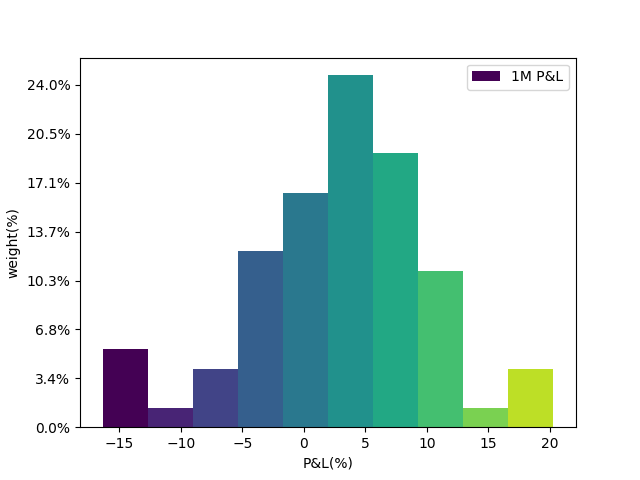
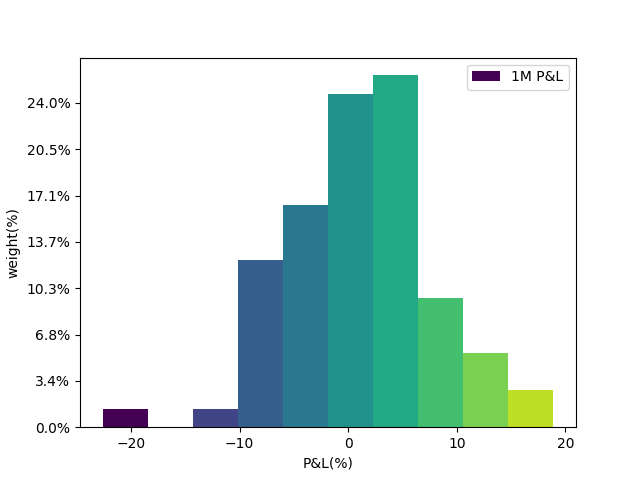
update examples

diff --git a/build/lib/ndfinance/strategies/trend/__init__.py b/build/lib/ndfinance/strategies/trend/__init__.py
@@ -1,14 +1,16 @@
 from ndfinance.strategies import PeriodicRebalancingStrategy
+from ndfinance.strategies.utils import apply_n_percent_rule
 from ndfinance import Weight, Close
 import numpy as np
 
 
 class ActualMomentumStratagy(PeriodicRebalancingStrategy):
-    def __init__(self, momentum_threshold, rebalance_period, momentum_label="momentum", momentum_timeframe=None):
+    def __init__(self, momentum_threshold, rebalance_period, momentum_label="momentum", momentum_timeframe=None, clip_param=0.3):
         super(ActualMomentumStratagy, self).__init__(rebalance_period)
         self.momentum_threshold = momentum_threshold
         self.momentum_label = momentum_label
         self.momentum_timeframe = momentum_timeframe
+        self.clip_param = clip_param
 
     def register_engine(self, *args, **kwargs):
         super(ActualMomentumStratagy, self).register_engine(*args, **kwargs)
@@ -25,6 +27,15 @@ class ActualMomentumStratagy(PeriodicRebalancingStrategy):
 
         momentum_dict = {ticker : (m if np.abs(m) >= self.momentum_threshold else 0) for ticker, m in momentum.items()}
         momentum_values = np.array(list(momentum_dict.values()))
+
+        momentum_values = momentum_values * (momentum_values >= momentum_values.mean()/2).astype(float)
+        
+        momentum_values = np.clip(
+            momentum_values, 
+            momentum_values.mean()-momentum_values.std()*self.clip_param, 
+            momentum_values.mean()+momentum_values.std()*self.clip_param
+        )
+
         weight = momentum_values / np.abs(momentum_values).sum()
         side = (weight > 0).astype(int) * 2 - 1
 
@@ -34,8 +45,8 @@ class ActualMomentumStratagy(PeriodicRebalancingStrategy):
                     self.broker.order(Close(self.broker.assets[ticker]))
                     continue
                 self.broker.order(
-                    Weight(self.broker.assets[ticker], self.broker.portfolio.portfolio_value_total, np.sign(weight), np.abs(weight)))
+                    Weight(self.broker.assets[ticker], (self.broker.portfolio.portfolio_value_total), side, np.abs(weight)))
                 continue
             self.broker.order(
-                    Weight(self.broker.assets[ticker], self.broker.portfolio.portfolio_value_total, np.sign(weight), np.abs(weight)))
+                    Weight(self.broker.assets[ticker], (self.broker.portfolio.portfolio_value_total), side, np.abs(weight)))
                 

diff --git a/ndfinance/strategies/trend/__init__.py b/ndfinance/strategies/trend/__init__.py
@@ -1,14 +1,16 @@
 from ndfinance.strategies import PeriodicRebalancingStrategy
+from ndfinance.strategies.utils import apply_n_percent_rule
 from ndfinance import Weight, Close
 import numpy as np
 
 
 class ActualMomentumStratagy(PeriodicRebalancingStrategy):
-    def __init__(self, momentum_threshold, rebalance_period, momentum_label="momentum", momentum_timeframe=None):
+    def __init__(self, momentum_threshold, rebalance_period, momentum_label="momentum", momentum_timeframe=None, clip_param=0.3):
         super(ActualMomentumStratagy, self).__init__(rebalance_period)
         self.momentum_threshold = momentum_threshold
         self.momentum_label = momentum_label
         self.momentum_timeframe = momentum_timeframe
+        self.clip_param = clip_param
 
     def register_engine(self, *args, **kwargs):
         super(ActualMomentumStratagy, self).register_engine(*args, **kwargs)
@@ -25,6 +27,13 @@ class ActualMomentumStratagy(PeriodicRebalancingStrategy):
 
         momentum_dict = {ticker : (m if np.abs(m) >= self.momentum_threshold else 0) for ticker, m in momentum.items()}
         momentum_values = np.array(list(momentum_dict.values()))
+        
+        momentum_values = np.clip(
+            momentum_values, 
+            momentum_values.mean()-momentum_values.std()*self.clip_param, 
+            momentum_values.mean()+momentum_values.std()*self.clip_param
+        )
+
         weight = momentum_values / np.abs(momentum_values).sum()
         side = (weight > 0).astype(int) * 2 - 1
 
@@ -34,8 +43,8 @@ class ActualMomentumStratagy(PeriodicRebalancingStrategy):
                     self.broker.order(Close(self.broker.assets[ticker]))
                     continue
                 self.broker.order(
-                    Weight(self.broker.assets[ticker], self.broker.portfolio.portfolio_value_total, np.sign(weight), np.abs(weight)))
+                    Weight(self.broker.assets[ticker], (self.broker.portfolio.portfolio_value_total), side, np.abs(weight)))
                 continue
             self.broker.order(
-                    Weight(self.broker.assets[ticker], self.broker.portfolio.portfolio_value_total, np.sign(weight), np.abs(weight)))
+                    Weight(self.broker.assets[ticker], (self.broker.portfolio.portfolio_value_total), side, np.abs(weight)))
                 

diff --git a/build/lib/ndfinance/visualizers/backtest_visualizer.py b/build/lib/ndfinance/visualizers/backtest_visualizer.py
@@ -244,7 +244,7 @@ class BasicVisualizer(Visualizer):
         else:
             n, b, p = ax.hist(y, label=label, *args, **kwargs)
 
-        ax.yaxis.set_major_formatter(PercentFormatter(xmax=sum(n)))
+        ax.yaxis.set_major_formatter(PercentFormatter(xmax=np.clip(sum(n), 1, np.inf)))
         
         set_colormap(p, cm=cmap)
 
@@ -341,7 +341,7 @@ class BasicVisualizer(Visualizer):
                 label="portfolio_value", xlabel="date", ylabel="portfolio value"
             ),
             "portfolio_value_cum_pnl_perc" : self.plot_line(
-                log["datetime"], log["portfolio_value"] / log["portfolio_value"][0],
+                log["datetime"], (log["portfolio_value"] / log["portfolio_value"][0] - 1)*100,
                 label="portfolio_value", xlabel="date", ylabel="cumulative p&L(%)"
             ),
             "portfolio_value_total": self.plot_line(
@@ -349,7 +349,7 @@ class BasicVisualizer(Visualizer):
                 label="portfolio_value_total", xlabel="date", ylabel="portfolio value"
             ),
             "portfolio_value_total_cum_pnl_perc": self.plot_line(
-                log["datetime"], log["portfolio_value_total"] / log["portfolio_value_total"][0],
+                log["datetime"], (log["portfolio_value_total"] / log["portfolio_value_total"][0] - 1)*100,
                 label="portfolio_value_total", xlabel="date", ylabel="cumulative p&L(%)"
             ),
             "realized_pnl_percentage_hist": self.plot_hist(

diff --git a/ndfinance/visualizers/backtest_visualizer.py b/ndfinance/visualizers/backtest_visualizer.py
@@ -244,7 +244,7 @@ class BasicVisualizer(Visualizer):
         else:
             n, b, p = ax.hist(y, label=label, *args, **kwargs)
 
-        ax.yaxis.set_major_formatter(PercentFormatter(xmax=sum(n)))
+        ax.yaxis.set_major_formatter(PercentFormatter(xmax=np.clip(sum(n), 1, np.inf)))
         
         set_colormap(p, cm=cmap)
 
@@ -341,7 +341,7 @@ class BasicVisualizer(Visualizer):
                 label="portfolio_value", xlabel="date", ylabel="portfolio value"
             ),
             "portfolio_value_cum_pnl_perc" : self.plot_line(
-                log["datetime"], log["portfolio_value"] / log["portfolio_value"][0],
+                log["datetime"], (log["portfolio_value"] / log["portfolio_value"][0] - 1)*100,
                 label="portfolio_value", xlabel="date", ylabel="cumulative p&L(%)"
             ),
             "portfolio_value_total": self.plot_line(
@@ -349,7 +349,7 @@ class BasicVisualizer(Visualizer):
                 label="portfolio_value_total", xlabel="date", ylabel="portfolio value"
             ),
             "portfolio_value_total_cum_pnl_perc": self.plot_line(
-                log["datetime"], log["portfolio_value_total"] / log["portfolio_value_total"][0],
+                log["datetime"], (log["portfolio_value_total"] / log["portfolio_value_total"][0] - 1)*100,
                 label="portfolio_value_total", xlabel="date", ylabel="cumulative p&L(%)"
             ),
             "realized_pnl_percentage_hist": self.plot_hist(

diff --git a/examples/actualmomentum.py b/examples/actualmomentum.py
@@ -4,6 +4,7 @@ from ndfinance.analysis.backtest.analyzer import BacktestAnalyzer
 from ndfinance.analysis.technical import RateOfChange
 from ndfinance.visualizers.backtest_visualizer import BasicVisualizer
 from ndfinance.strategies.trend import ActualMomentumStratagy
+from ndfinance.callbacks import PositionWeightPrinterCallback
 import matplotlib.pyplot as plt
 
 
@@ -11,7 +12,8 @@ def main(tickers, **kwargs):
     path="./bt_results/actualmomentum/"
     dp = BacktestDataProvider()
     dp.add_yf_tickers(*tickers)
-    dp.add_technical_indicators(tickers, [TimeFrames.day], [RateOfChange(20)])
+    n = 50
+    dp.add_technical_indicators(tickers, [TimeFrames.day], [RateOfChange(n)])
 
     indexer = TimeIndexer(dp.get_shortest_timestamp_seq())
     dp.set_indexer(indexer)
@@ -20,14 +22,15 @@ def main(tickers, **kwargs):
     [brk.add_asset(Futures(ticker=ticker)) for ticker in tickers]
 
     strategy = ActualMomentumStratagy(
-        momentum_threshold=1, 
+        momentum_threshold=5, 
         rebalance_period=TimeFrames.day*30,
-        momentum_label="ROCR20",
+        momentum_label=f"ROCR{n}",
     )
 
     engine = BacktestEngine()
     engine.register_broker(brk)
     engine.register_strategy(strategy)
+    engine.register_callback(PositionWeightPrinterCallback())
 
     log = engine.run()
     

diff --git a/build/lib/ndfinance/analysis/backtest/analyzer.py b/build/lib/ndfinance/analysis/backtest/analyzer.py
@@ -9,7 +9,9 @@ import json
 import os
 
 
-def amm(array, label):
+def amm(array:np.ndarray, label):
+    if len(array) == 0:
+        array = np.zeros(1)
     return {
         f"average_{label}": array.mean(),
         f"max_{label}": array.max(),
@@ -39,8 +41,8 @@ class BacktestAnalyzer:
 
         self.result["total_trade_count"] = len(log["realized_pnl"])
 
-        self.result["win_rate_percentage"] = self.result["win_trade_count"] / self.result["total_trade_count"] * 100
-        self.result["lose_rate_percentage"] = self.result["lose_trade_count"] / self.result["total_trade_count"] * 100
+        self.result["win_rate_percentage"] = self.result["win_trade_count"] / np.clip(self.result["total_trade_count"], 1, np.inf) * 100
+        self.result["lose_rate_percentage"] = self.result["lose_trade_count"] / np.clip(self.result["total_trade_count"], 1, np.inf) * 100
 
         self.result["sharpe_ratio"], self.result["sortino_ratio"] = calc_sharpe_sortino_ratio(
             self.log["portfolio_value_total"], benchmark, self.log["timestamp"]

diff --git a/ndfinance/analysis/backtest/analyzer.py b/ndfinance/analysis/backtest/analyzer.py
@@ -9,7 +9,9 @@ import json
 import os
 
 
-def amm(array, label):
+def amm(array:np.ndarray, label):
+    if len(array) == 0:
+        array = np.zeros(1)
     return {
         f"average_{label}": array.mean(),
         f"max_{label}": array.max(),
@@ -39,8 +41,8 @@ class BacktestAnalyzer:
 
         self.result["total_trade_count"] = len(log["realized_pnl"])
 
-        self.result["win_rate_percentage"] = self.result["win_trade_count"] / self.result["total_trade_count"] * 100
-        self.result["lose_rate_percentage"] = self.result["lose_trade_count"] / self.result["total_trade_count"] * 100
+        self.result["win_rate_percentage"] = self.result["win_trade_count"] / np.clip(self.result["total_trade_count"], 1, np.inf) * 100
+        self.result["lose_rate_percentage"] = self.result["lose_trade_count"] / np.clip(self.result["total_trade_count"], 1, np.inf) * 100
 
         self.result["sharpe_ratio"], self.result["sortino_ratio"] = calc_sharpe_sortino_ratio(
             self.log["portfolio_value_total"], benchmark, self.log["timestamp"]

diff --git a/setup.py b/setup.py
@@ -9,7 +9,7 @@ setup(
               'ndfinance.brokers.base', 'ndfinance.brokers.backtest', 'ndfinance.loggers', 'ndfinance.loggers.backtest',
               'ndfinance.analysis', 'ndfinance.analysis.backtest', 'ndfinance.analysis.technical',
               'ndfinance.analysis.machine_learning', 'ndfinance.analysis.machine_learning.rl_envs',
-              'ndfinance.callbacks', 'ndfinance.strategies', 'ndfinance.strategies.basic', 'ndfinance.strategies.trend', 'ndfinance.visualizers'],
+              'ndfinance.callbacks', 'ndfinance.strategies', 'ndfinance.strategies.basic', 'ndfinance.strategies.trend', 'ndfinance.strategies.utils', 'ndfinance.visualizers'],
     url='',
     license='',
     author='Yeachan-Heo',

diff --git a/build/lib/ndfinance/strategies/basic/__init__.py b/build/lib/ndfinance/strategies/basic/__init__.py
@@ -11,6 +11,4 @@ class SameWeightBuyHold(Strategy):
             weight = 1 / len(self.broker.assets)
             [self.broker.order(order.Weight(asset, self.broker.portfolio.portfolio_value, 1, weight))
              for asset in self.broker.assets.values()]
-            [self.broker.order(order.TimeCutClose(asset, self.indexer.timestamp, years=2)) for asset in
-             self.broker.assets.values()]
             self.ordered = True

diff --git a/ndfinance/strategies/basic/__init__.py b/ndfinance/strategies/basic/__init__.py
@@ -11,6 +11,4 @@ class SameWeightBuyHold(Strategy):
             weight = 1 / len(self.broker.assets)
             [self.broker.order(order.Weight(asset, self.broker.portfolio.portfolio_value, 1, weight))
              for asset in self.broker.assets.values()]
-            [self.broker.order(order.TimeCutClose(asset, self.indexer.timestamp, years=2)) for asset in
-             self.broker.assets.values()]
             self.ordered = True

diff --git a/build/lib/ndfinance/callbacks/__init__.py b/build/lib/ndfinance/callbacks/__init__.py
@@ -29,7 +29,8 @@ class PositionWeightPrinterCallback(Callback):
         weight = value/value.sum()
 
         for k, w in zip(self.broker.portfolio.positions.keys(), weight):
-            print(f"{k}:{np.round(w*100, 2)}%")
+            side = "sell" if self.broker.portfolio.positions[k].side == -1 else "buy"
+            print(f"{k}:{np.round(w*100, 2)}%, side:{side}")
 
         print("\n")
 

diff --git a/ndfinance/callbacks/__init__.py b/ndfinance/callbacks/__init__.py
@@ -29,7 +29,8 @@ class PositionWeightPrinterCallback(Callback):
         weight = value/value.sum()
 
         for k, w in zip(self.broker.portfolio.positions.keys(), weight):
-            print(f"{k}:{np.round(w*100, 2)}%")
+            side = "sell" if self.broker.portfolio.positions[k].side == -1 else "buy"
+            print(f"{k}:{np.round(w*100, 2)}%, side:{side}")
 
         print("\n")
 
